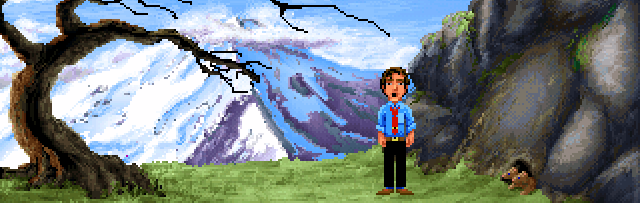
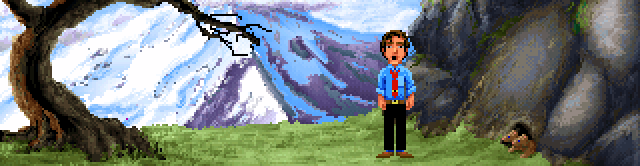
cleaned up old images, added disqus

diff --git a/incubator/index.md b/incubator/index.md
@@ -4,20 +4,9 @@ title: Theme Setup
 modified: 2014-07-31T13:23:02.362000-04:00
 excerpt: "Instructions on how to install and customize the Jekyll theme Minimal Mistakes."
 image:
-  feature: sample-image-3.jpg
-  credit: WeGraphics
-  creditlink: http://wegraphics.net/downloads/free-ultimate-blurred-background-pack/
+  feature: 2hs.png
+  credit: LucasArts
 ---
-
-<section id="table-of-contents" class="toc">
-  <header>
-    <h3>Overview</h3>
-  </header>
-<div id="drawer" markdown="1">
-*  Auto generated table of contents
-{:toc}
-</div>
-</section><!-- /#table-of-contents -->
 
 ## Installation
 

diff --git a/about/index.md b/about/index.md
@@ -5,9 +5,8 @@ tags: [about, Jekyll, theme, responsive]
 modified: 2014-08-08T20:53:07.573882-04:00
 comments: true
 image:
-  feature: sample-image-2.jpg
-  credit: WeGraphics
-  creditlink: http://wegraphics.net/downloads/free-ultimate-blurred-background-pack/
+  feature: 2hs.png
+  credit: LucasArts
 ---
 
 Minimal Mistakes is responsive Jekyll theme with large featured images and solid typography. As the name implies the styling is fairly minimal to make it easier for you to build on top of.

diff --git a/index.md b/index.md
@@ -3,6 +3,6 @@ layout: home
 excerpt: "A place for game dev ideas for 2 headed squirrel."
 tags: [gamedev, unity3d, game, gamedesign, ludum dare]
 image:
-  feature: 2hs-1.png
+  feature: 2hs.png
   credit: LucasArts
 ---
